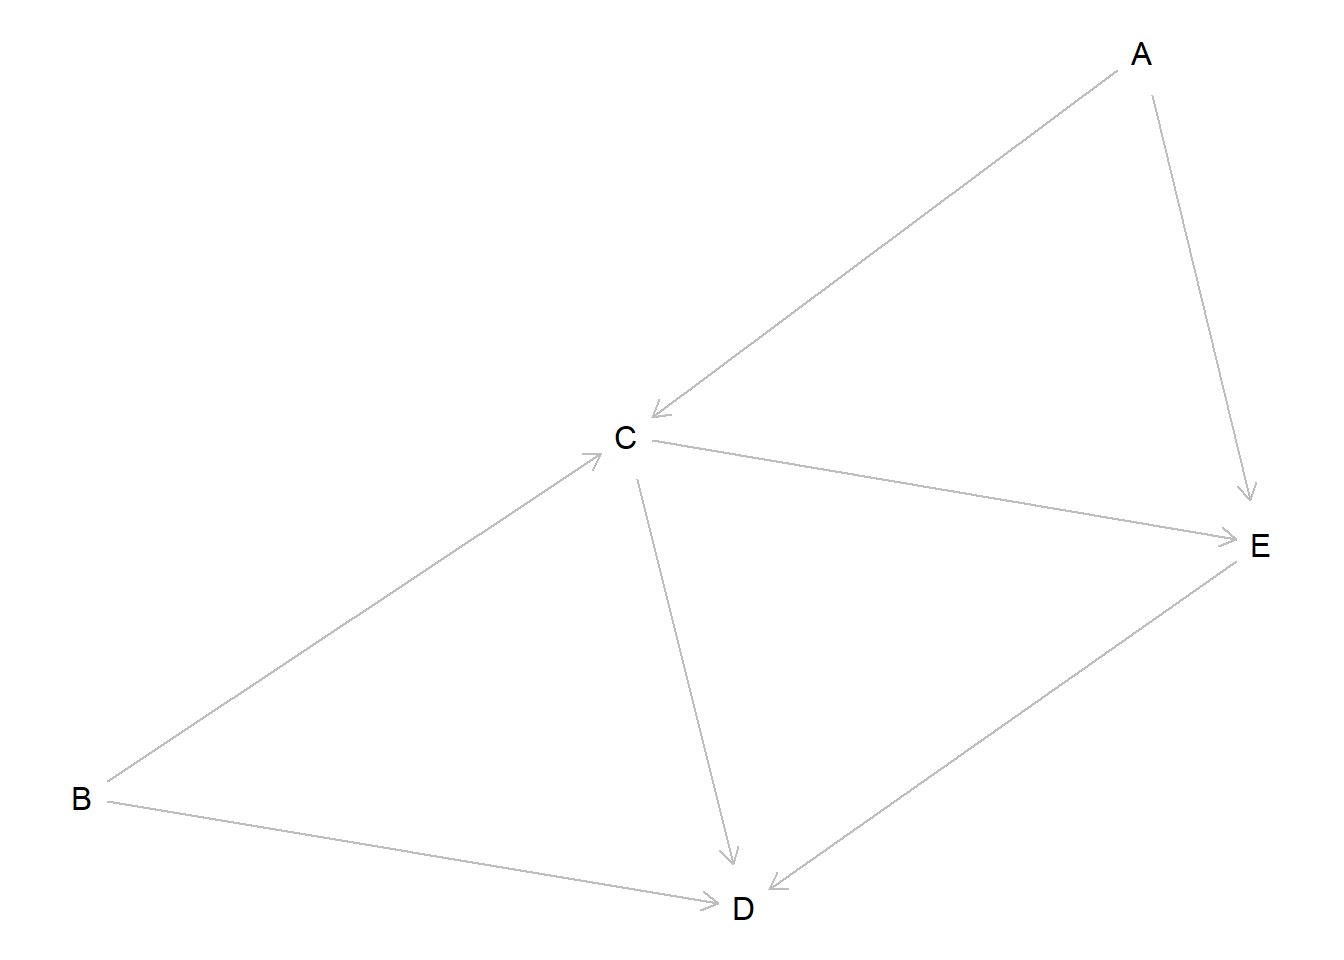
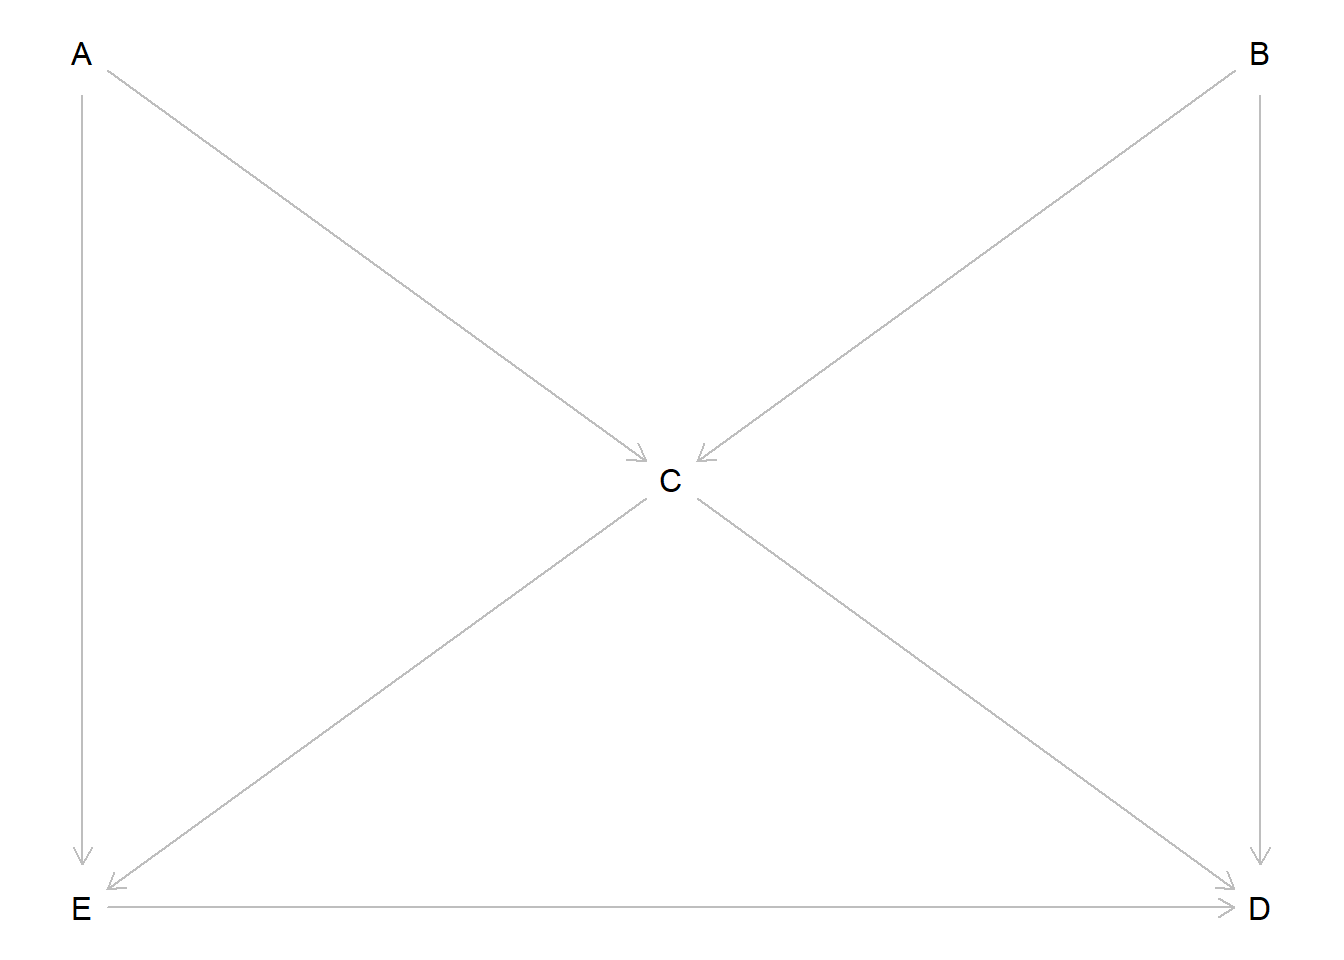
dag

diff --git a/docs/jp/causal-inference-3.html b/docs/jp/causal-inference-3.html
@@ -381,10 +381,8 @@ Rパッケージを用いたDAGのコードはこちら
 <span id="cb1-10"><a href="#cb1-10" aria-hidden="true" tabindex="-1"></a><span class="st">  E -&gt; D</span></span>
 <span id="cb1-11"><a href="#cb1-11" aria-hidden="true" tabindex="-1"></a><span class="st">}"</span>)</span>
 <span id="cb1-12"><a href="#cb1-12" aria-hidden="true" tabindex="-1"></a></span>
-<span id="cb1-13"><a href="#cb1-13" aria-hidden="true" tabindex="-1"></a><span class="fu">plot</span>(dag)</span></code><button title="Copy to Clipboard" class="code-copy-button"><i class="bi"></i></button></pre></div>
-<div class="cell-output cell-output-stderr">
-<pre><code>Plot coordinates for graph not supplied! Generating coordinates, see ?coordinates for how to set your own.</code></pre>
-</div>
+<span id="cb1-13"><a href="#cb1-13" aria-hidden="true" tabindex="-1"></a><span class="fu">coordinates</span>(dag) <span class="ot">&lt;-</span> <span class="fu">list</span>(<span class="at">x=</span><span class="fu">c</span>(<span class="at">A=</span><span class="dv">1</span>,<span class="at">B=</span><span class="dv">3</span>,<span class="at">C=</span><span class="dv">2</span>,<span class="at">D=</span><span class="dv">3</span>,<span class="at">E=</span><span class="dv">1</span>),<span class="at">y=</span><span class="fu">c</span>(<span class="at">A=</span><span class="dv">1</span>,<span class="at">B=</span><span class="dv">1</span>,<span class="at">C=</span><span class="dv">2</span>,<span class="at">D=</span><span class="dv">3</span>,<span class="at">E=</span><span class="dv">3</span>))</span>
+<span id="cb1-14"><a href="#cb1-14" aria-hidden="true" tabindex="-1"></a><span class="fu">plot</span>(dag)</span></code><button title="Copy to Clipboard" class="code-copy-button"><i class="bi"></i></button></pre></div>
 <div class="cell-output-display">
 <div>
 <figure class="figure">
@@ -392,8 +390,8 @@ Rパッケージを用いたDAGのコードはこちら
 </figure>
 </div>
 </div>
-<div class="sourceCode cell-code" id="cb3"><pre class="sourceCode r code-with-copy"><code class="sourceCode r"><span id="cb3-1"><a href="#cb3-1" aria-hidden="true" tabindex="-1"></a>confounders <span class="ot">&lt;-</span> <span class="fu">adjustmentSets</span>(dag, <span class="at">exposure =</span> <span class="st">"E"</span>, <span class="at">outcome =</span> <span class="st">"D"</span>)</span>
-<span id="cb3-2"><a href="#cb3-2" aria-hidden="true" tabindex="-1"></a><span class="fu">print</span>(confounders)</span></code><button title="Copy to Clipboard" class="code-copy-button"><i class="bi"></i></button></pre></div>
+<div class="sourceCode cell-code" id="cb2"><pre class="sourceCode r code-with-copy"><code class="sourceCode r"><span id="cb2-1"><a href="#cb2-1" aria-hidden="true" tabindex="-1"></a>confounders <span class="ot">&lt;-</span> <span class="fu">adjustmentSets</span>(dag, <span class="at">exposure =</span> <span class="st">"E"</span>, <span class="at">outcome =</span> <span class="st">"D"</span>)</span>
+<span id="cb2-2"><a href="#cb2-2" aria-hidden="true" tabindex="-1"></a><span class="fu">print</span>(confounders)</span></code><button title="Copy to Clipboard" class="code-copy-button"><i class="bi"></i></button></pre></div>
 <div class="cell-output cell-output-stdout">
 <pre><code>{ B, C }
 { A, C }</code></pre>
@@ -407,7 +405,7 @@ Rパッケージを用いたDAGのコードはこちら
 <p>私「ふむ。今回も呪文の意味はわからぬが、とりあえず、<code>dagitty()</code>の出力を<code>plot()</code>に入れるとDAGが描かれた。そして<code>adjustmentSets()</code>の出力を<code>print()</code>に入れると、交絡因子はBとC、AとCって表示された」</p>
 </div>
 <div class="voice-father">
-<p>お父さん「その通り。ここからは、どうやってDAGから交絡因子として調整すべき変数たちを探すかっていうアルゴリズムの話をするねｄｄ。そのためには同時分布と条件付分布が要る。人によっては復習が必要かもしれない」</p>
+<p>お父さん「その通り。ここからは、どうやってDAGから交絡因子として調整すべき変数たちを探すかっていうアルゴリズムについの話すね。そのためには同時分布と条件付分布が要る。人によっては復習が必要かもしれない」</p>
 </div>
 </div>
 <div class="callout callout-style-simple callout-note callout-titled" title="確率の復習">
@@ -660,7 +658,7 @@ Rパッケージを用いたDAGのコードはこちら
 <li><strong>正解は4です。</strong></li>
 </ul>
 <p>DAGをみると、Cは合流点でもあり、共通原因にもなっていますよね。したがって、Aだけ、Bだけ、AとBだけを調整すると、パスE←C→Dによる疑似相関が残ってしまいます。さらに、Cは合流点なので、調整するとパスE←A→C←B→Dによる相関が生じてしまいます。</p>
-<p>結論をいうと、パスE←A→C←B→Dをブロックするため、Cに加えて、AまたはBを調整する必要があります。この変数の組み合わせは<code>dagitty()</code>と<code>adjustmentSets()</code>の実行結果と同じですよね。</p>
+<p>結論をいうと、パスE←A→C←B→Dをブロックするためには、複数の変数を同時に調整する必要があります。すなわち、交絡因子の集合は、CとAまたはCとBです。この変数の組み合わせは<code>dagitty()</code>と<code>adjustmentSets()</code>の実行結果と同じですよね。</p>
 </div>
 </div>
 </div>

diff --git a/docs/jp/frequentist-5.html b/docs/jp/frequentist-5.html
@@ -500,7 +500,7 @@ calculate_coverage()を実行するRコードと結果はこちら
 <span id="cb3-3"><a href="#cb3-3" aria-hidden="true" tabindex="-1"></a>coverage_200 <span class="ot">&lt;-</span> <span class="fu">calculate_coverage</span>(<span class="at">model=</span><span class="st">"coxph"</span>, <span class="at">n=</span><span class="dv">200</span>, <span class="at">hr1=</span><span class="dv">2</span>, <span class="at">hr2=</span><span class="fl">1.5</span>, <span class="at">hr_true=</span><span class="fl">1.5</span>)</span>
 <span id="cb3-4"><a href="#cb3-4" aria-hidden="true" tabindex="-1"></a><span class="fu">print</span>(coverage_200)</span></code><button title="Copy to Clipboard" class="code-copy-button"><i class="bi"></i></button></pre></div>
 <div class="cell-output cell-output-stdout">
-<pre><code>[1] 0.953</code></pre>
+<pre><code>[1] 0.948</code></pre>
 </div>
 </div>
 </div>
@@ -544,19 +544,19 @@ calculate_coverage()を実行するRコードと結果はこちら
 <span id="cb5-3"><a href="#cb5-3" aria-hidden="true" tabindex="-1"></a>coverage_800 <span class="ot">&lt;-</span> <span class="fu">calculate_coverage</span>(<span class="at">model=</span><span class="st">"coxph"</span>, <span class="at">n=</span><span class="dv">800</span>, <span class="at">hr1=</span><span class="dv">2</span>, <span class="at">hr2=</span><span class="fl">1.5</span>, <span class="at">hr_true=</span><span class="fl">1.5</span>)</span>
 <span id="cb5-4"><a href="#cb5-4" aria-hidden="true" tabindex="-1"></a><span class="fu">print</span>(coverage_100)</span></code><button title="Copy to Clipboard" class="code-copy-button"><i class="bi"></i></button></pre></div>
 <div class="cell-output cell-output-stdout">
-<pre><code>[1] 0.965</code></pre>
+<pre><code>[1] 0.942</code></pre>
 </div>
 <div class="sourceCode cell-code" id="cb7"><pre class="sourceCode r code-with-copy"><code class="sourceCode r"><span id="cb7-1"><a href="#cb7-1" aria-hidden="true" tabindex="-1"></a><span class="fu">print</span>(coverage_200)</span></code><button title="Copy to Clipboard" class="code-copy-button"><i class="bi"></i></button></pre></div>
 <div class="cell-output cell-output-stdout">
-<pre><code>[1] 0.953</code></pre>
+<pre><code>[1] 0.948</code></pre>
 </div>
 <div class="sourceCode cell-code" id="cb9"><pre class="sourceCode r code-with-copy"><code class="sourceCode r"><span id="cb9-1"><a href="#cb9-1" aria-hidden="true" tabindex="-1"></a><span class="fu">print</span>(coverage_400)</span></code><button title="Copy to Clipboard" class="code-copy-button"><i class="bi"></i></button></pre></div>
 <div class="cell-output cell-output-stdout">
-<pre><code>[1] 0.947</code></pre>
+<pre><code>[1] 0.942</code></pre>
 </div>
 <div class="sourceCode cell-code" id="cb11"><pre class="sourceCode r code-with-copy"><code class="sourceCode r"><span id="cb11-1"><a href="#cb11-1" aria-hidden="true" tabindex="-1"></a><span class="fu">print</span>(coverage_800)</span></code><button title="Copy to Clipboard" class="code-copy-button"><i class="bi"></i></button></pre></div>
 <div class="cell-output cell-output-stdout">
-<pre><code>[1] 0.949</code></pre>
+<pre><code>[1] 0.956</code></pre>
 </div>
 </div>
 </div>

diff --git a/docs/jp/frequentist-2.html b/docs/jp/frequentist-2.html
@@ -546,20 +546,20 @@ coxph()のコードと結果はこちら
 <pre><code>Call:
 coxph(formula = Surv(time_os, status_os) ~ stoma, data = dat)
 
-  n= 200, number of events= 144 
+  n= 200, number of events= 131 
 
-                  coef exp(coef) se(coef)     z Pr(&gt;|z|)   
-stomaWITH STOMA 0.4612    1.5860   0.1696 2.719  0.00654 **
+                  coef exp(coef) se(coef)     z Pr(&gt;|z|)  
+stomaWITH STOMA 0.3982    1.4891   0.1869 2.131   0.0331 *
 ---
 Signif. codes:  0 '***' 0.001 '**' 0.01 '*' 0.05 '.' 0.1 ' ' 1
 
                 exp(coef) exp(-coef) lower .95 upper .95
-stomaWITH STOMA     1.586     0.6305     1.137     2.211
+stomaWITH STOMA     1.489     0.6715     1.032     2.148
 
-Concordance= 0.552  (se = 0.023 )
-Likelihood ratio test= 7.24  on 1 df,   p=0.007
-Wald test            = 7.39  on 1 df,   p=0.007
-Score (logrank) test = 7.52  on 1 df,   p=0.006</code></pre>
+Concordance= 0.523  (se = 0.023 )
+Likelihood ratio test= 4.38  on 1 df,   p=0.04
+Wald test            = 4.54  on 1 df,   p=0.03
+Score (logrank) test = 4.6  on 1 df,   p=0.03</code></pre>
 </div>
 </div>
 </div>

diff --git a/docs/en/frequentist-2.html b/docs/en/frequentist-2.html
@@ -556,20 +556,20 @@ R code for coxph() and outout
 <pre><code>Call:
 coxph(formula = Surv(time_os, status_os) ~ stoma, data = dat)
 
-  n= 200, number of events= 147 
+  n= 200, number of events= 146 
 
-                  coef exp(coef) se(coef)     z Pr(&gt;|z|)   
-stomaWITH STOMA 0.4925    1.6365   0.1730 2.847  0.00442 **
+                  coef exp(coef) se(coef)     z Pr(&gt;|z|)  
+stomaWITH STOMA 0.3823    1.4656   0.1667 2.294   0.0218 *
 ---
 Signif. codes:  0 '***' 0.001 '**' 0.01 '*' 0.05 '.' 0.1 ' ' 1
 
                 exp(coef) exp(-coef) lower .95 upper .95
-stomaWITH STOMA     1.636     0.6111     1.166     2.297
+stomaWITH STOMA     1.466     0.6823     1.057     2.032
 
-Concordance= 0.545  (se = 0.023 )
-Likelihood ratio test= 7.96  on 1 df,   p=0.005
-Wald test            = 8.1  on 1 df,   p=0.004
-Score (logrank) test = 8.26  on 1 df,   p=0.004</code></pre>
+Concordance= 0.553  (se = 0.023 )
+Likelihood ratio test= 5.22  on 1 df,   p=0.02
+Wald test            = 5.26  on 1 df,   p=0.02
+Score (logrank) test = 5.32  on 1 df,   p=0.02</code></pre>
 </div>
 </div>
 </div>
